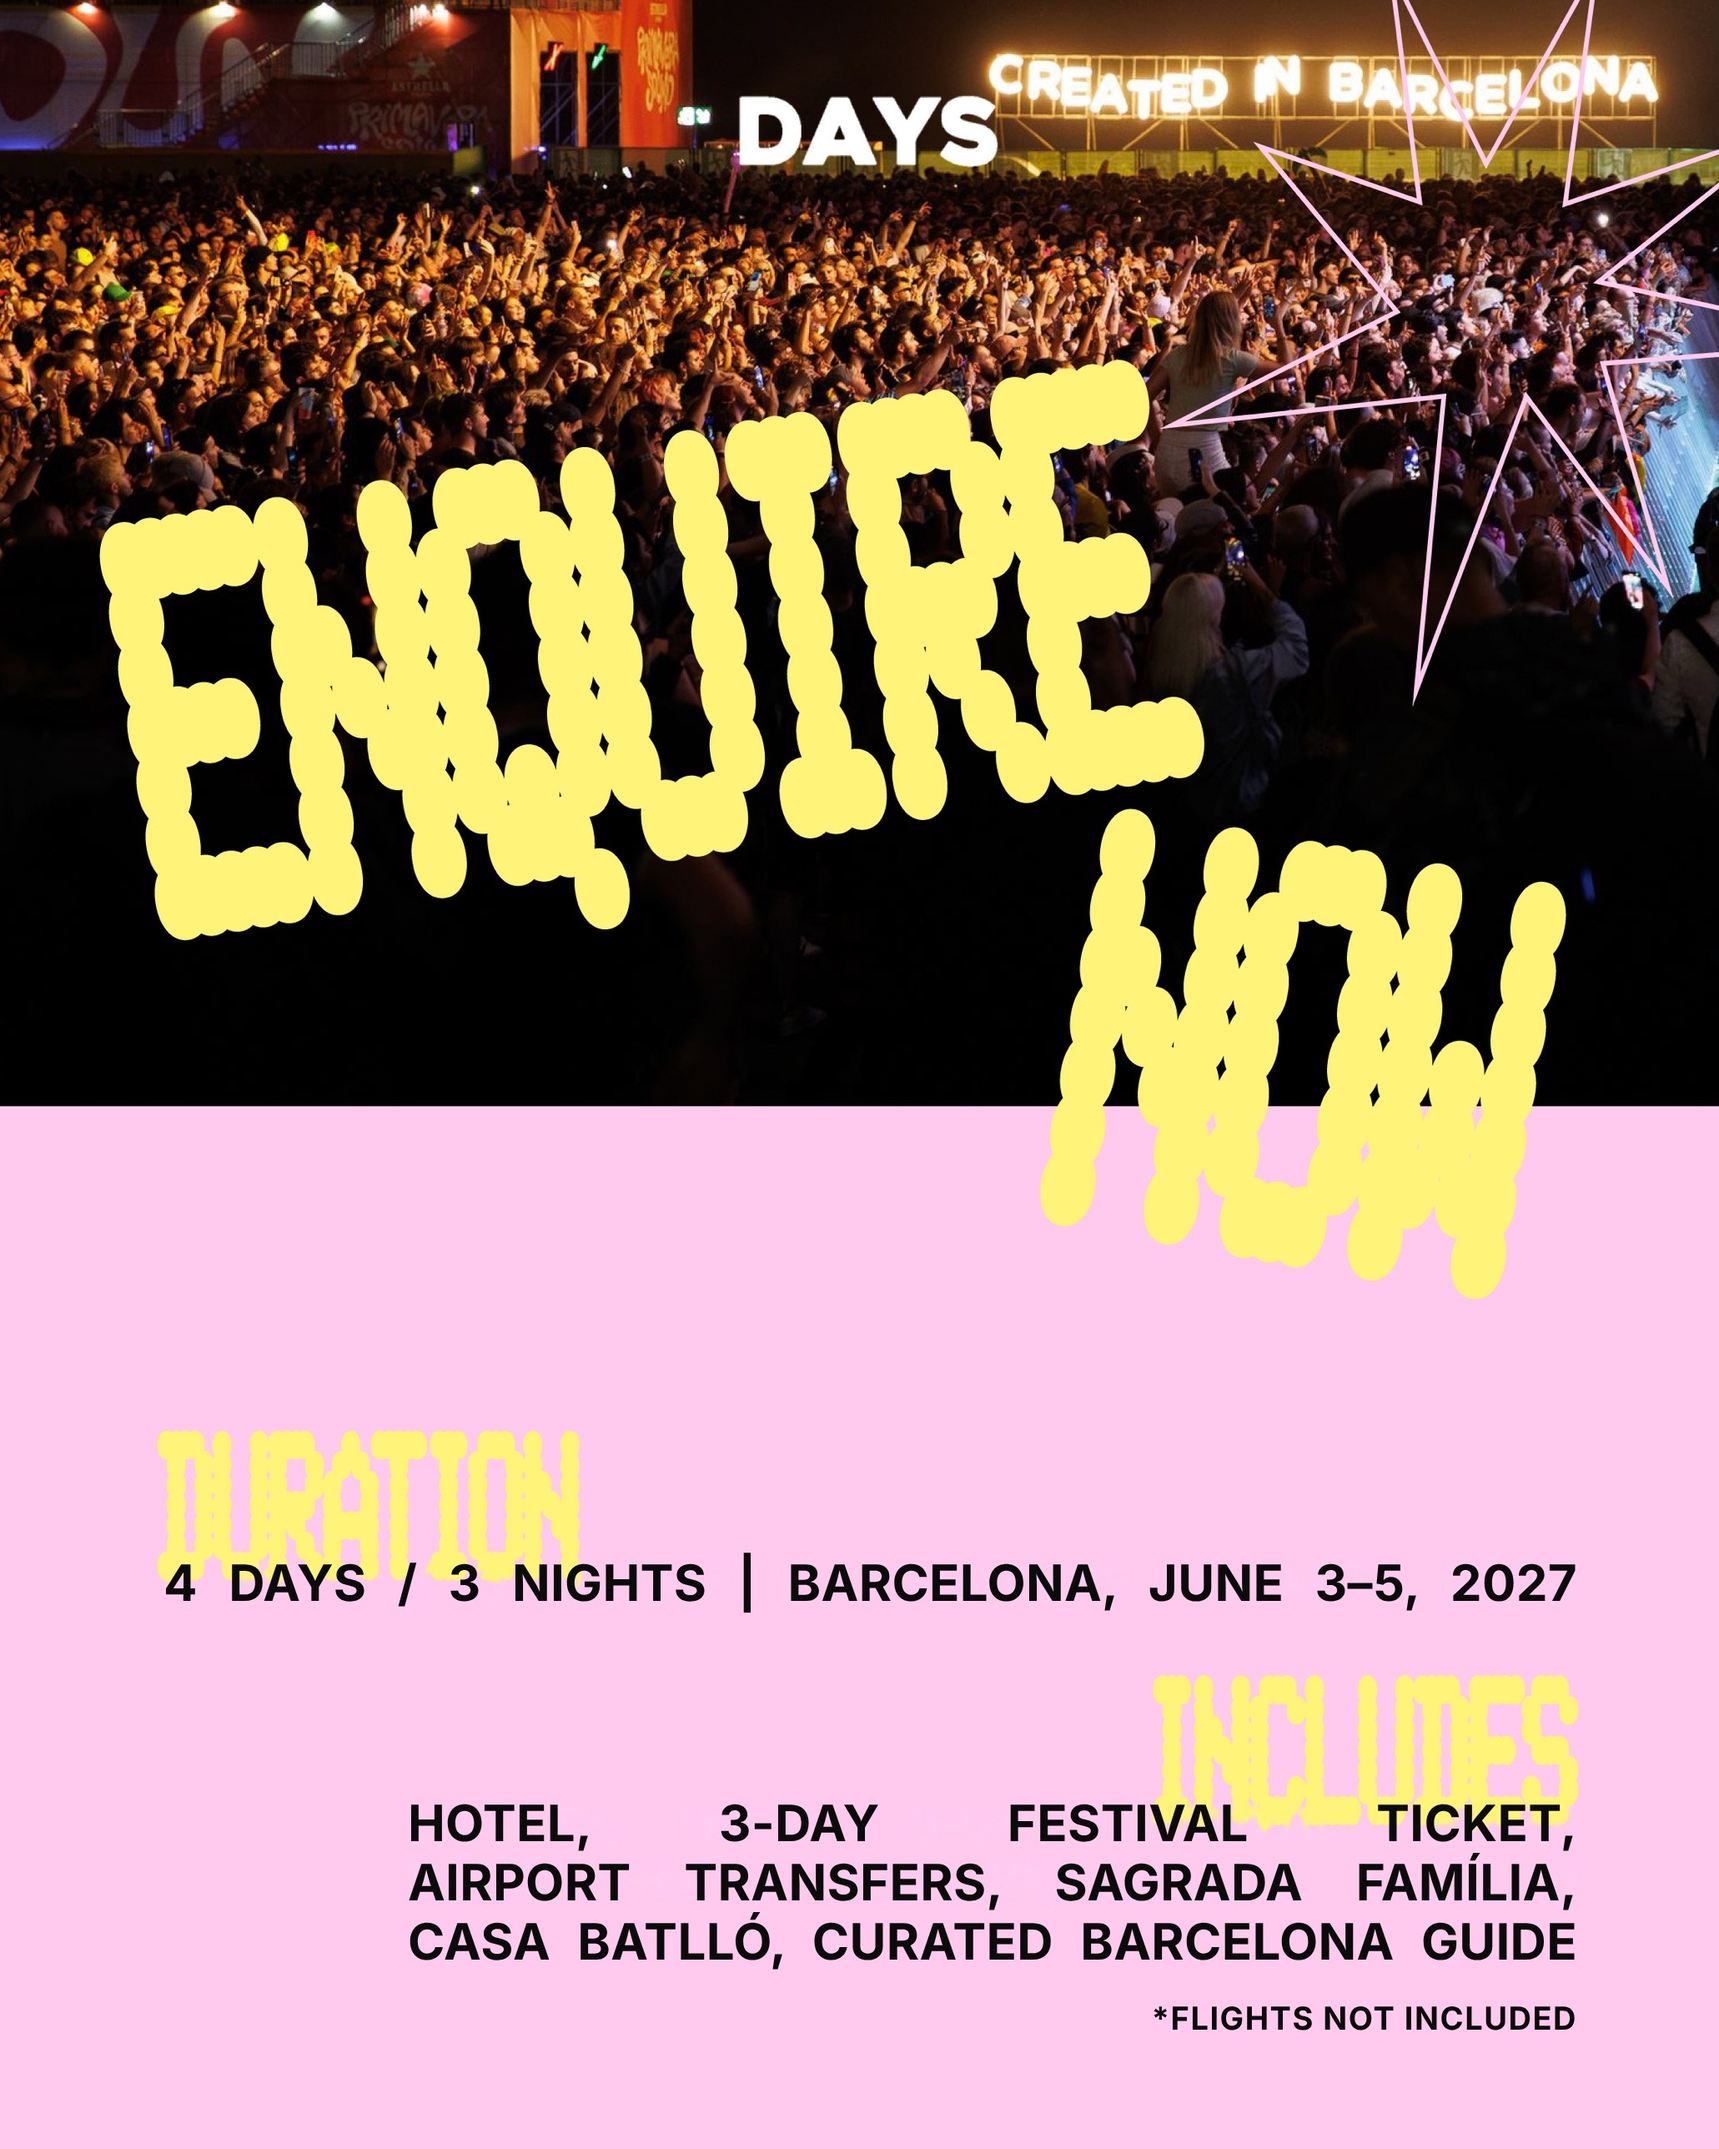
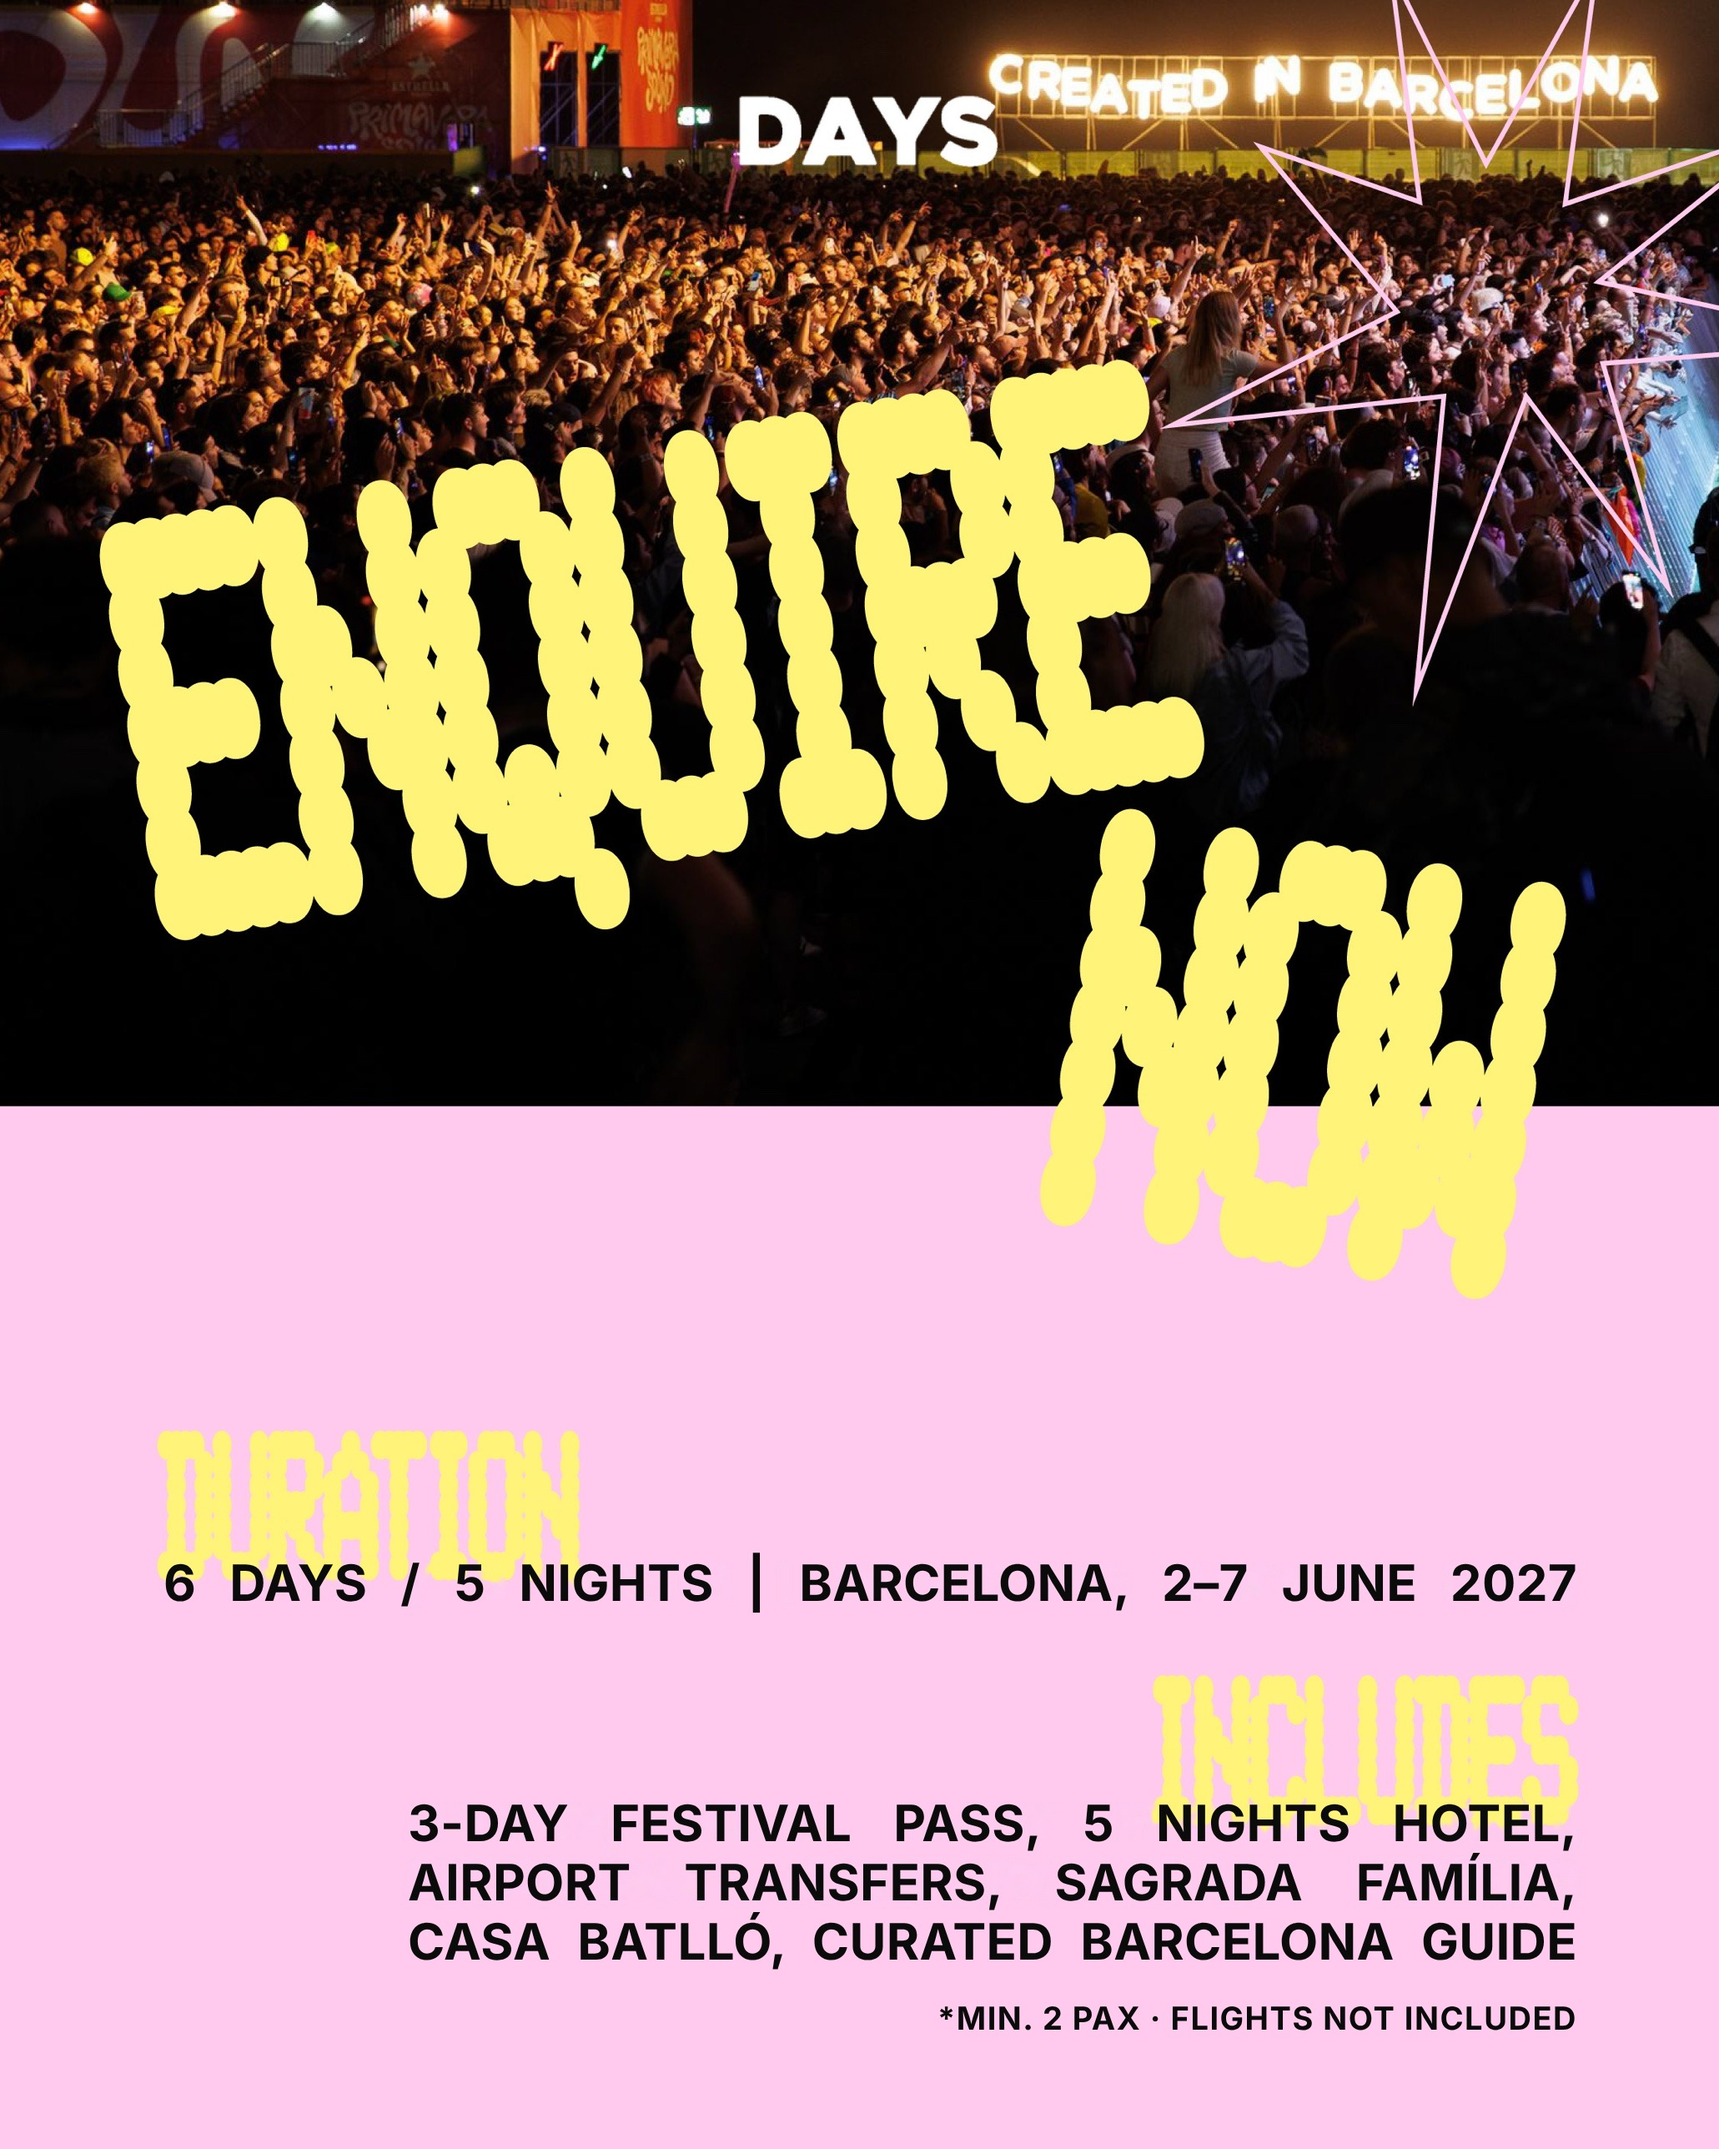
Primavera 2027 posters: 6D/5N package, Fòrum Edit and VIP pricing
Claude-Session: https://claude.ai/code/session_01Eb5aT6ze4JeyNUzcmVzEmL

diff --git a/social/primavera-2027/src/price.html b/social/primavera-2027/src/price.html
@@ -1,0 +1,37 @@
+<!doctype html>
+<html><head><meta charset="utf-8"><title>Primavera 2027 price</title>
+<style>
+  *{margin:0;padding:0;box-sizing:border-box}
+  body{background:#fff}
+  .poster{position:relative;width:2061px;height:2576px;background:url(price-clean.png) 0 0/2061px 2576px no-repeat;
+    font-family:'Inter',sans-serif;font-weight:700;color:#0b0b0b;text-transform:uppercase;text-align:center}
+  .abs{position:absolute;left:0;right:0}
+  .meta{top:1782px;font-size:44px;letter-spacing:.04em;word-spacing:.15em}
+  .tiers{top:1868px;left:170px;right:170px;display:grid;grid-template-columns:1fr 4px 1fr;align-items:center}
+  .tiers .rule{height:170px;background:#0b0b0b}
+  .tier .name{font-size:40px;letter-spacing:.08em}
+  .tier .price{font-size:88px;letter-spacing:-.01em;line-height:1;margin-top:14px;font-weight:800}
+  .tier .price small{font-size:40px;font-weight:700;letter-spacing:0}
+  .inc{top:2106px;font-size:34px;letter-spacing:.14em}
+  .list{top:2160px;font-size:40px;line-height:54px}
+  .note{top:2508px;font-size:30px;letter-spacing:.06em}
+</style></head><body>
+<div class="poster" id="poster">
+  <p class="abs meta">6 Days / 5 Nights &nbsp;|&nbsp; 2–7 June 2027 &nbsp;|&nbsp; Min. 2 Pax</p>
+  <div class="abs tiers">
+    <div class="tier"><p class="name">The Fòrum Edit</p><p class="price">Rp 47,500,000<small>/pax</small></p></div>
+    <div class="rule"></div>
+    <div class="tier"><p class="name">VIP</p><p class="price">Rp 59,500,000<small>/pax</small></p></div>
+  </div>
+  <p class="abs inc">All packages include</p>
+  <div class="abs list">
+    <p>• 3-day Primavera Sound pass (Regular / VIP)</p>
+    <p>• 5 nights accommodation (3-star Regular / 4-star VIP)</p>
+    <p>• Airport transfers</p>
+    <p>• Sagrada Família</p>
+    <p>• Casa Batlló</p>
+    <p>• A curated guide to Barcelona's food, culture &amp; local scene</p>
+  </div>
+  <p class="abs note">*Flights not included</p>
+</div>
+</body></html>

diff --git a/social/primavera-2027/src/render.js b/social/primavera-2027/src/render.js
@@ -1,13 +1,15 @@
-// Render enquire.html to ../export/DAYS-primavera-2027-enquire.jpg at full size.
+// Render enquire.html and price.html to ../export/DAYS-primavera-2027-<name>.jpg at full size.
 const { chromium } = require('playwright');
 const path = require('path');
 (async () => {
   const b = await chromium.launch();
   const p = await b.newPage({ viewport: { width: 2061, height: 2576 }, deviceScaleFactor: 1 });
-  await p.goto('file://' + path.join(__dirname, 'enquire.html'), { waitUntil: 'networkidle' });
-  await p.evaluate(() => document.fonts.ready);
-  const out = path.join(__dirname, '..', 'export', 'DAYS-primavera-2027-enquire.jpg');
-  await (await p.$('#poster')).screenshot({ path: out, type: 'jpeg', quality: 92 });
-  console.log('wrote', out);
+  for (const name of ['enquire', 'price']) {
+    await p.goto('file://' + path.join(__dirname, name + '.html'), { waitUntil: 'networkidle' });
+    await p.evaluate(() => document.fonts.ready);
+    const out = path.join(__dirname, '..', 'export', `DAYS-primavera-2027-${name}.jpg`);
+    await (await p.$('#poster')).screenshot({ path: out, type: 'jpeg', quality: 92 });
+    console.log('wrote', out);
+  }
   await b.close();
 })();

diff --git a/social/primavera-2027/src/enquire.html b/social/primavera-2027/src/enquire.html
@@ -9,8 +9,8 @@
   .note{position:absolute;font-size:38px;line-height:1;letter-spacing:.04em}
 </style></head><body>
 <div class="poster" id="poster">
-  <p class="j" style="left:196px;width:1695px;top:1862px">4 Days / 3 Nights | Barcelona, June 3–5, 2027</p>
-  <p class="j" style="left:489px;width:1402px;top:2150px">Hotel, 3-day festival ticket,<br>airport transfers, Sagrada Família,<br>Casa Batlló, curated Barcelona guide</p>
-  <p class="note" style="right:170px;top:2400px">*Flights not included</p>
+  <p class="j" style="left:196px;width:1695px;top:1862px">6 Days / 5 Nights | Barcelona, 2–7 June 2027</p>
+  <p class="j" style="left:489px;width:1402px;top:2150px">3-day festival pass, 5 nights hotel,<br>airport transfers, Sagrada Família,<br>Casa Batlló, curated Barcelona guide</p>
+  <p class="note" style="right:170px;top:2400px">*Min. 2 pax · flights not included</p>
 </div>
 </body></html>

diff --git a/social/primavera-2027/src/clean_panel.py b/social/primavera-2027/src/clean_panel.py
@@ -1,0 +1,22 @@
+"""Remove black body text from a poster's flat colour info panel (everything below y0),
+keeping the panel colour and any light lettering/lines on it.
+Usage: python3 clean_panel.py <in.jpg> <out.png> <y0_px> [keep_x0,keep_y0,keep_x1,keep_y1]"""
+import sys, cv2, numpy as np
+img = cv2.imread(sys.argv[1])
+h, w = img.shape[:2]
+y0 = int(sys.argv[3])                                # top of the info panel
+hsv = cv2.cvtColor(img, cv2.COLOR_BGR2HSV)
+dark = (hsv[..., 2] < 200).astype(np.uint8) * 255    # black text + its anti-aliased edge
+dark[:y0] = 0
+mask = cv2.dilate(dark, np.ones((5, 5), np.uint8))
+out = cv2.inpaint(img, mask, 4, cv2.INPAINT_TELEA)
+# The panel is one flat colour: repaint it solid to kill inpainting ghosts, except in
+# an optional keep-box (x0,y0,x1,y1) where light graphic lines cross into the panel.
+if len(sys.argv) > 4:
+    flat = np.median(img[h - 40:h - 10, 20:200].reshape(-1, 3), axis=0).astype(np.uint8)
+    keep = [int(v) for v in sys.argv[4].split(",")]
+    region = np.zeros(img.shape[:2], bool); region[y0:] = True
+    region[keep[1]:keep[3], keep[0]:keep[2]] = False
+    out[region] = flat
+cv2.imwrite(sys.argv[2], out)
+print("ok", int(mask.sum() / 255), "px")

diff --git a/social/primavera-2027/README.md b/social/primavera-2027/README.md
@@ -1,11 +1,30 @@
 # DAYS x Primavera Sound 2027: package posters
 
+## Package (current)
+
+6 days / 5 nights, 2–7 June 2027 (festival 3–5 June), min. 2 pax. Flights not included.
+
+| Package | Price |
+|---|---|
+| The Fòrum Edit (Regular) | Rp 47,500,000 / pax |
+| VIP | Rp 59,500,000 / pax |
+
+All include: 3-day Primavera Sound pass (Regular / VIP), 5 nights accommodation (3-star Regular / 4-star VIP), airport transfers, Sagrada Família, Casa Batlló, a curated guide to Barcelona's food, culture and local scene.
+
+## Files
+
 | File | What |
 |---|---|
-| `src/price-original.jpg` | Price poster (source of truth): festival ticket, 4D/3N accommodation, airport transfers, Sagrada Família, Casa Batlló, curated guide. No flights. |
-| `src/enquire-original.jpg` | Original "Enquire Now" poster, which wrongly listed flights and a Jakarta departure |
-| `export/DAYS-primavera-2027-enquire.jpg` | Revised "Enquire Now" poster, matching the price poster |
+| `export/DAYS-primavera-2027-price.jpg` | Price poster with both packages |
+| `export/DAYS-primavera-2027-enquire.jpg` | "Enquire Now" poster, same package details |
+| `src/price-original.jpg`, `src/enquire-original.jpg` | Originals (old 4D/3N package; Enquire Now wrongly listed flights) |
 
-Revision: removed "Flights" and "Departure: Jakarta (CGK)"; duration line now reads "4 Days / 3 Nights | Barcelona, June 3–5, 2027"; includes now list exactly what the price poster lists; added "*Flights not included".
+## Rebuild
 
-Rebuild: `python3 src/clean_enquire.py src/enquire-original.jpg src/enquire-clean.png && node src/render.js` (text is in `src/enquire.html`).
+```bash
+python3 src/clean_panel.py src/enquire-original.jpg src/enquire-clean.png 1803
+python3 src/clean_panel.py src/price-original.jpg src/price-clean.png 1733 1650,1733,2061,1960
+node src/render.js
+```
+
+The text lives in `src/price.html` and `src/enquire.html`.
